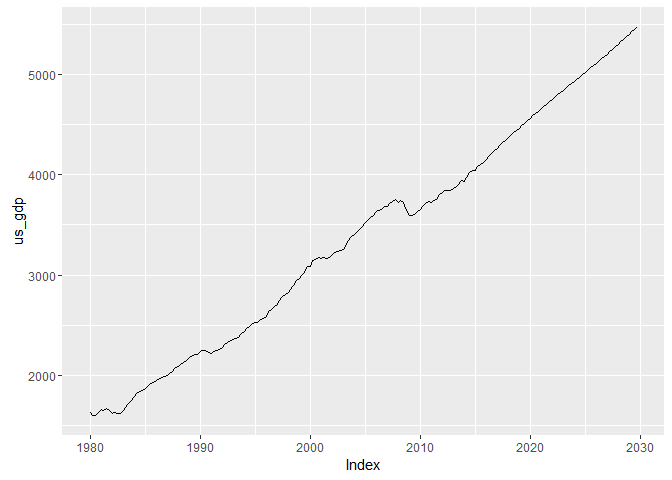
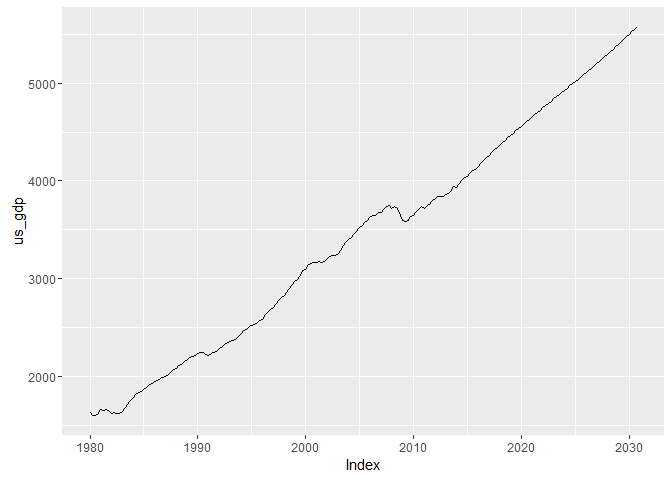
extend date to 2030

diff --git a/scripts/040_load_usmacro.md b/scripts/040_load_usmacro.md
@@ -22,7 +22,7 @@ Also, I've modified it to pull FRED data using a quandl package.
 #sets up to later shorten data based on current date 
 cur_year <- year(Sys.time())
 end_year <- cur_year +15
-end_year <- round(end_year,-1) -1
+end_year <- round(end_year,-1)
 end_date <- paste(end_year,"-10-01",sep="")
 ```
 
